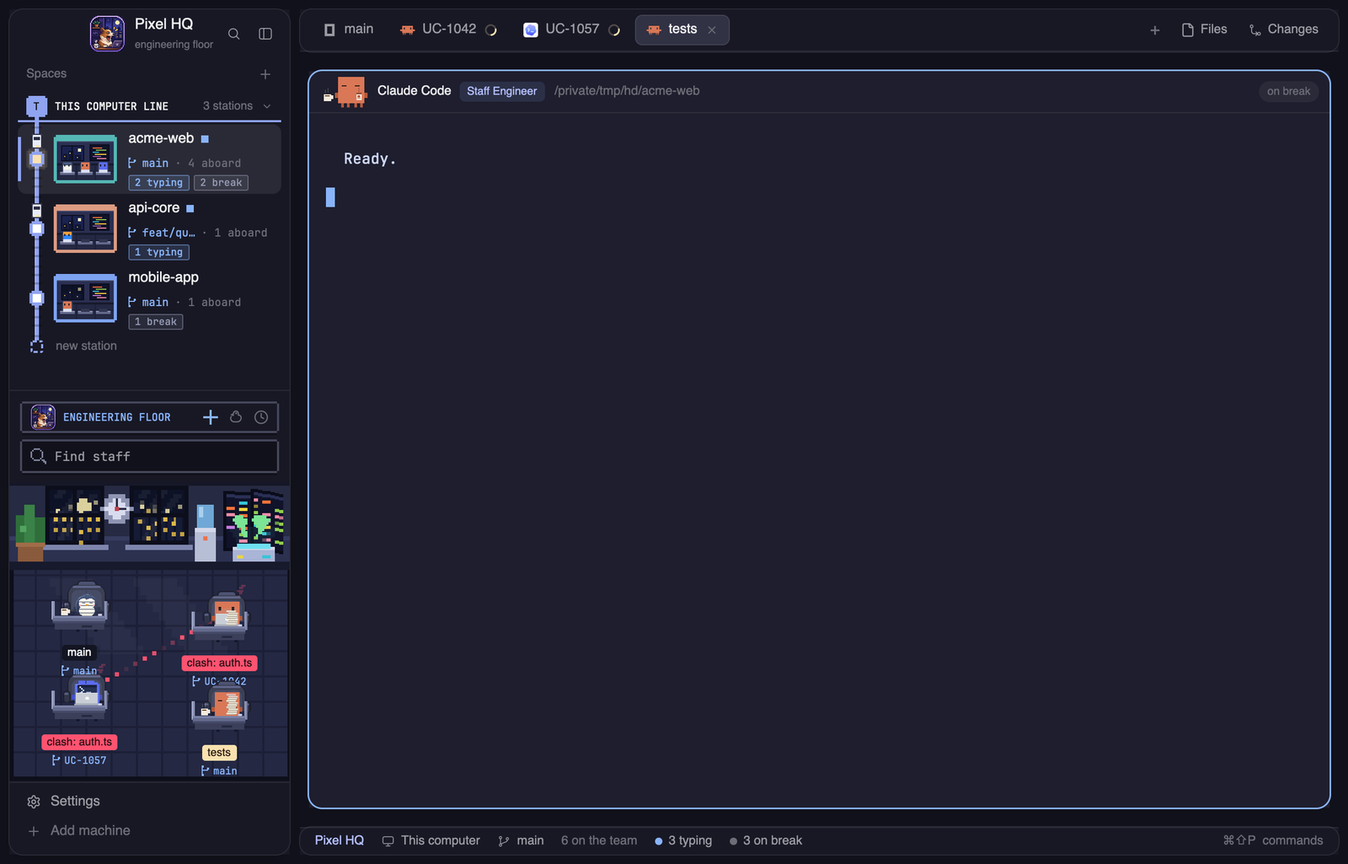
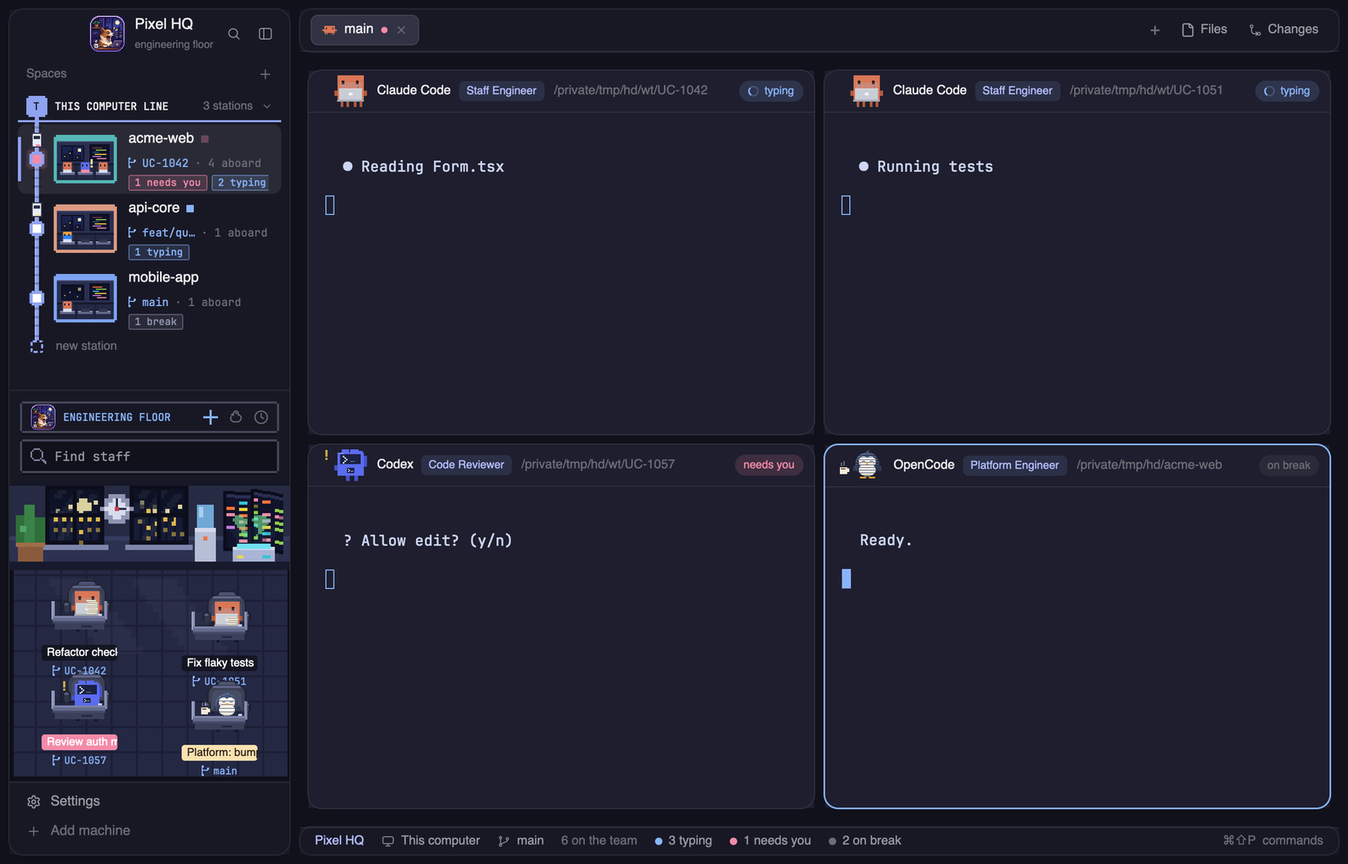
1.3.0: paper piles for Codex and OpenCode, one-click Update button, new screenshot

diff --git a/mods/company-agents/main.js b/mods/company-agents/main.js
@@ -88,6 +88,23 @@ function contextBar(t, pct, model, address) {
     .when(Boolean(model), el => el.child(div().min_w(0).truncate().text_size(10).text_color(t.muted).child(`· ${model}`)));
 }
 
+// What the Update button hands to an agent.
+const UPDATE_PROMPT = "Read ~/.config/herdr-app/AGENTS.md, then update my Pixel HQ layout to the latest version from herdr.dev/layouts/bnhan2710/pixel-hq. Overwriting my installed pixel-hq files is intended; keep my other layouts and mods.";
+
+// Finds a Codex terminal's session file (the one its process, or a child of it, has open; else the newest recent one that began in the
+// same folder) and prints its last token_count event, whose last_token_usage and model_context_window say how full the context is.
+const CODEX_SH = `home="\${CODEX_HOME:-$HOME/.codex}/sessions"
+pids="$1"; for i in 1 2 3; do pids="$pids $(for p in $pids; do pgrep -P "$p" 2>/dev/null; done)"; done
+f=""
+[ -n "$1" ] && f=$(lsof -p "$(echo $pids | tr -s ' ' ',')" -Fn 2>/dev/null | sed -n 's/^n//p' | grep -E '/rollout-[^/]*\\.jsonl$' | head -1)
+if [ -z "$f" ]; then
+  for c in $(find "$home" -name 'rollout-*.jsonl' -mmin -720 2>/dev/null | xargs ls -t 2>/dev/null | head -20); do
+    case "$(head -n 1 "$c")" in *'"cwd":"'"$2"'"'*) f="$c"; break;; esac
+  done
+fi
+[ -n "$f" ] || exit 3
+tail -n 600 "$f" | grep '"type":"token_count"' | tail -1`;
+
 export default class Agents extends View {
   init(_props, cx) {
     if (props()?.sortMenu) return;
@@ -125,8 +142,12 @@ export default class Agents extends View {
     this.scanning = false;
     this.scan(cx);
     cx.timer.every(6000, (cx) => this.scan(cx));
+    // Codex does not report its context, but it writes it to its session file: read it for each Codex desk.
+    this.ctxRead = new Map();
+    this.scanCodex(cx);
+    cx.timer.every(8000, (cx) => this.scanCodex(cx));
     // `company-agents.hire` (a key binding, or herdr-app do) opens the hire form.
-    cx.spawn(async (cx) => { for (;;) { const c = await nextCommand(); if (c === "hire") this.openHire(cx); } });
+    cx.spawn(async (cx) => { for (;;) { const c = await nextCommand(); if (c === "hire") this.openHire(cx); if (c === "update") this.runUpdate(cx); } });
     // OpenCode 1.x does not report a status by itself, so without help it never gets a desk. Once, if OpenCode is installed, drop its
     // status plugin (this mod's opencode-status.js) into OpenCode's plugins folder. Only ever replaces Pixel HQ's own older copy;
     // deleting the file removes it for good.
@@ -318,6 +339,29 @@ export default class Agents extends View {
     this.scanning = false;
   }
 
+  async scanCodex(cx) {
+    if (this.scanningCodex || window()?.platform === "windows") return;
+    this.scanningCodex = true;
+    try {
+      const remote = new Set(spaces().filter((x) => x.machine).map((x) => x.id));
+      const paneBy = new Map(panes().map((p) => [p.pane, p]));
+      const next = new Map();
+      for (const a of agents().filter((x) => String(x.program?.key ?? "").toLowerCase().includes("codex") && !remote.has(x.space))) {
+        const info = JSON.parse((await hc(["get", a.address, "--json"]).catch(() => ({ stdout: "{}" }))).stdout || "{}");
+        const pid = info?.foreground?.pid;
+        const cwd = paneBy.get(a.pane)?.cwd;
+        if (!pid && !cwd) continue;
+        const r = await exec("sh", ["-c", CODEX_SH, "sh", String(pid ?? ""), cwd ?? "/dev/null/none"], { timeout: 8000 }).catch(() => null);
+        const ev = r?.code === 0 && r.stdout ? JSON.parse(r.stdout.trim().split("\n").pop()) : null;
+        const used = ev?.payload?.info?.last_token_usage?.total_tokens, win = ev?.payload?.info?.model_context_window;
+        if (used > 0 && win > 0) next.set(a.address, { pct: Math.max(0, Math.min(100, Math.round((used * 100) / win))), model: null });
+      }
+      const sig = JSON.stringify([...next]);
+      if (sig !== JSON.stringify([...this.ctxRead])) { this.ctxRead = next; cx.notify(); }
+    } catch { /* no codex, no lsof, odd output: no pile */ }
+    this.scanningCodex = false;
+  }
+
   openHire(cx) {
     const h = this.hiring;
     h.open = !h.open;
@@ -345,6 +389,21 @@ export default class Agents extends View {
       this.ticketInput.set_value("");
     } catch (e) { h.error = String(e?.message ?? e); }
     h.busy = false;
+    cx.notify();
+  }
+
+  // The Update button: opens a new tab in the shown space with an agent (the one you are in, else Claude) that starts on the update prompt.
+  runUpdate(cx) {
+    // Once per click: every copy of this mod hears the same command, and a double click must not open two agents.
+    if (Date.now() - Number(shared("pixel-hq.update-at") ?? 0) < 5000) return;
+    setShared("pixel-hq.update-at", Date.now());
+    const sp = spaces().find((x) => x.active);
+    const here = agents().find((a) => a.address === focused()?.agent);
+    const key = String(here?.program?.key ?? "").toLowerCase();
+    const argv = key.includes("codex") ? ["codex"] : key.includes("opencode") ? ["opencode"] : ["claude"];
+    if (this.update) localStorage.setItem("upd-dismissed", this.update.version);
+    this.update = null;
+    run("tab.new", { name: "update Pixel HQ", folder: appHome(), argv, task: UPDATE_PROMPT, space: sp?.id });
     cx.notify();
   }
 
@@ -376,25 +435,27 @@ export default class Agents extends View {
   }
 
   async setupOpenCode(cx) {
-    if (localStorage.getItem("oc-plugin-v2")) return;
     const src = `${appHome()}/mods/company-agents/opencode-status.js`;
-    // "oc-plugin" is the first plugin's record: that install only replaces its own old copy and never brings back a removed one.
-    const upgrade = localStorage.getItem("oc-plugin") ? "1" : "";
-    // Exit codes: 0 added, 5 old Pixel HQ copy replaced (it fails to load on OpenCode 2.x), 3 no OpenCode folder,
-    // 4 left alone (already current, someone else's file, or removed by the person).
-    const sh = 'D="${XDG_CONFIG_HOME:-$HOME/.config}/opencode"; [ -d "$D" ] || exit 3; T="$D/plugins/opencode-status.js"; U=0; '
-      + 'if [ -e "$T" ]; then grep -q pixel-hq-status "$T" && exit 4; grep -q PixelHqStatus "$T" || exit 4; U=5; elif [ -n "$2" ]; then exit 4; fi; '
-      + 'mkdir -p "$D/plugins" || exit 1; cp "$1" "$T" || exit 1; exit $U';
-    const ps = "param($src, $upgrade); $c = if ($env:XDG_CONFIG_HOME) { $env:XDG_CONFIG_HOME } else { Join-Path $env:USERPROFILE '.config' }; $d = Join-Path $c 'opencode'; "
-      + "if (-not (Test-Path -LiteralPath $d)) { exit 3 }; $p = Join-Path $d 'plugins'; $t = Join-Path $p 'opencode-status.js'; $u = 0; "
-      + "if (Test-Path -LiteralPath $t) { $s = Get-Content -Raw -LiteralPath $t; if ($s -match 'pixel-hq-status' -or $s -notmatch 'PixelHqStatus') { exit 4 }; $u = 5 } elseif ($upgrade) { exit 4 }; "
-      + "New-Item -ItemType Directory -Force -Path $p | Out-Null; Copy-Item -LiteralPath $src -Destination $t -Force -ErrorAction Stop; exit $u";
+    const had = localStorage.getItem("oc-plugin") ? "1" : "0";
+    // Exit codes: 0 added, 3 no OpenCode folder, 4 nothing to do, 5 updated to this mod's newer version of its own plugin.
+    // Never touches a file that is not this plugin, and respects a plugin the person deleted.
+    const sh = 'D="${XDG_CONFIG_HOME:-$HOME/.config}/opencode"; [ -d "$D" ] || exit 3; T="$D/plugins/opencode-status.js"; '
+      + 'if [ -e "$T" ]; then grep -q PixelHqStatus "$T" || exit 4; '
+      + '[ "$(grep -o "pixel-hq-plugin v[0-9]*" "$T" | head -1)" = "$(grep -o "pixel-hq-plugin v[0-9]*" "$1" | head -1)" ] && exit 4; '
+      + 'cp "$1" "$T" || exit 1; exit 5; fi; [ "$2" = 1 ] && exit 4; mkdir -p "$D/plugins" || exit 1; cp "$1" "$T" || exit 1';
+    const ps = "param($src, $had); $c = if ($env:XDG_CONFIG_HOME) { $env:XDG_CONFIG_HOME } else { Join-Path $env:USERPROFILE '.config' }; $d = Join-Path $c 'opencode'; "
+      + "if (-not (Test-Path -LiteralPath $d)) { exit 3 }; $p = Join-Path $d 'plugins'; $t = Join-Path $p 'opencode-status.js'; "
+      + "if (Test-Path -LiteralPath $t) { $cur = Get-Content -Raw -LiteralPath $t; if ($cur -notmatch 'PixelHqStatus') { exit 4 }; "
+      + "$a = [regex]::Match($cur, 'pixel-hq-plugin v\\d+').Value; $b = [regex]::Match((Get-Content -Raw -LiteralPath $src), 'pixel-hq-plugin v\\d+').Value; "
+      + "if ($a -eq $b) { exit 4 }; Copy-Item -LiteralPath $src -Destination $t -Force -ErrorAction Stop; exit 5 }; "
+      + "if ($had -eq '1') { exit 4 }; New-Item -ItemType Directory -Force -Path $p | Out-Null; Copy-Item -LiteralPath $src -Destination $t -ErrorAction Stop";
     const r = await (window()?.platform === "windows"
-      ? exec("powershell", ["-NoProfile", "-NonInteractive", "-Command", `& { ${ps} } '${src.replace(/'/g, "''")}' '${upgrade}'`])
-      : exec("sh", ["-c", sh, "sh", src, upgrade])).catch(() => null);
+      ? exec("powershell", ["-NoProfile", "-NonInteractive", "-Command", `& { ${ps} } '${src.replace(/'/g, "''")}' '${had}'`])
+      : exec("sh", ["-c", sh, "sh", src, had])).catch(() => null);
     if (!r || ![0, 4, 5].includes(r.code)) return; // no OpenCode here (yet), or a failed copy: try again next launch
-    localStorage.setItem("oc-plugin-v2", "1");
-    if (r.code !== 4) { this.notice = `OpenCode plugin ${r.code === 5 ? "updated" : "added"} · restart OpenCode to see it here`; cx.notify(); }
+    localStorage.setItem("oc-plugin", "1");
+    if (r.code === 0) { this.notice = "OpenCode plugin added · restart OpenCode to see it here"; cx.notify(); }
+    if (r.code === 5) { this.notice = "OpenCode plugin updated · restart OpenCode to apply"; cx.notify(); }
   }
 
   render(cx) {
@@ -483,9 +544,10 @@ export default class Agents extends View {
 
     // Context use (0–100) and model that Claude's status line labels its terminal with.
     const contextOf = new Map(all.flatMap((k) => {
-      const v = Number.parseInt(k.labels?.["claude.context"], 10);
-      return Number.isFinite(v) ? [[k.address, { pct: Math.max(0, Math.min(100, v)), model: k.labels?.["claude.model"] || null }]] : [];
+      const v = Number.parseInt(k.labels?.["agent.context"] ?? k.labels?.["claude.context"], 10);
+      return Number.isFinite(v) ? [[k.address, { pct: Math.max(0, Math.min(100, v)), model: k.labels?.["agent.model"] || k.labels?.["claude.model"] || null }]] : [];
     }));
+    for (const [addr, c] of this.ctxRead) if (!contextOf.has(addr)) contextOf.set(addr, c);
 
     const row = (a, i, subs = []) => {
       const pic = figureFor(a.space_name, a.status, 45, now - this.since(a), speciesOf(a.program?.key));
@@ -792,9 +854,16 @@ export default class Agents extends View {
       })
       .child(scene(sz.width, sz.height))
       .when(list.length === 0, (el) => el.child(div().absolute().left(12).top(sz.height * 0.5).w(sz.width - 24).px(8).py(6).rounded(3).bg("#0f111acc").text_size(12).text_color("#ffffff").child("No staff on this floor yet. Hire one with the + above, or start an agent in this space.")))
-      .when(Boolean(this.update || this.notice), (el) => el.child(div().id("oc-notice").absolute().left(8).right(8).top(horizon + 6).px(8).py(4).rounded(8).bg("#11111bee").border_1().border_color("#89b4fa").text_size(11).text_color("#cdd6f4").cursor_pointer()
-        .on_click((_e, cx) => { if (this.update) localStorage.setItem("upd-dismissed", this.update.version); this.update = null; this.notice = null; cx.notify(); })
-        .child(this.update ? `Pixel HQ ${this.update.version} is out${this.update.notes ? ` · ${this.update.notes}` : ""}. Ask your agent: "update Pixel HQ from github.com/bnhan2710/pixel-hq, overwriting is OK" (click to hide)` : this.notice)))
+      .when(Boolean(this.update || this.notice), (el) => {
+        const btn = (id, text, fill, ink, act) => div().id(id).px(10).h(22).flex().items_center().cursor_pointer().bg(fill).text_size(10.5).font_family(monoF).font_bold().text_color(ink).on_click(act).child(text);
+        const box = v_flex().id("oc-notice").absolute().left(8).right(8).top(horizon + 6).px(8).py(6).gap(6).rounded(8).bg("#11111bee").border_1().border_color("#89b4fa").text_size(11).text_color("#cdd6f4");
+        return el.child(this.update
+          ? box.child(div().child(`Pixel HQ ${this.update.version} is out${this.update.notes ? ` · ${this.update.notes}` : ""}`))
+            .child(h_flex().gap(6)
+              .child(btn("upd-go", "Update now", "#89b4fa", "#11111b", (_e, cx) => this.runUpdate(cx)))
+              .child(btn("upd-later", "Later", "#313244", "#cdd6f4", (_e, cx) => { localStorage.setItem("upd-dismissed", this.update.version); this.update = null; cx.notify(); })))
+          : box.cursor_pointer().on_click((_e, cx) => { this.notice = null; cx.notify(); }).child(this.notice));
+      })
       .when(hidden > 0, (el) => el.child(div().absolute().right(8).top(horizon + 6).px(8).py(3).rounded(8).bg("#11111bdd").border_1().border_color("#45475a").text_size(11).text_color("#cdd6f4").child(`+${hidden} more · narrow the panel to list all`)))
       .children(links)
       .children(this.drag?.moved ? [...pets.filter((_, i) => seated[i].address !== this.drag.addr), ...pets.filter((_, i) => seated[i].address === this.drag.addr)] : pets);

diff --git a/mods/company-agents/opencode-status.js b/mods/company-agents/opencode-status.js
@@ -1,13 +1,16 @@
+// pixel-hq-plugin v3
 // OpenCode plugin for the Herdr app: makes OpenCode show up as a team member in Pixel HQ.
 //
 // Herdr only counts a terminal as an agent when its program reports a status (an OSC 7501 escape sequence).
 // Claude Code does that by itself, and so does OpenCode from 2.0.29 on. OpenCode 1.x does not, so its pane has a pet in the
 // header but no desk in the office. On 1.x this plugin sends the sequence on OpenCode's session events: working, idle,
-// blocked (permission or question). On 2.x it loads and does nothing: OpenCode reports for itself, and the 2.x plugin API
+// blocked (permission or question), and labels the terminal with how full the context is (agent.context, 0-100) for the pile of
+// papers on the desk. On 2.x it loads and does nothing: OpenCode reports for itself, and the 2.x plugin API
 // has no session events to report from.
 //
 // Install: copy this file to ~/.config/opencode/plugins/ and restart OpenCode. Delete it to remove.
 import fs from "node:fs";
+import { execFile } from "node:child_process";
 
 const APP = "opencode";
 const ID = "pixel-hq-status";
@@ -32,14 +35,37 @@ const kindOf = (status) => {
   return ["active", "busy", "pending", "running", "streaming", "working", "retry"].includes(k) ? "working" : undefined;
 };
 
-export const PixelHqStatus = async () => {
+// How full the context is: the last answer's tokens against the model's context window, labelled onto the Herdr terminal with `hc`
+// (at most every 3 s, only when the number moves). Needs the 1.x event stream, so on 2.x there is no pile for OpenCode.
+const limits = new Map();
+let lastPct, lastAt = 0;
+const labelContext = (pct, model) => {
+  const id = process.env.HC_TERMINAL_ID, now = Date.now();
+  if (!id || pct === lastPct || now - lastAt < 3000) return;
+  lastPct = pct; lastAt = now;
+  try { execFile("hc", ["label", id, `agent.context=${pct}`, `agent.model=${model}`], () => {}); } catch {}
+};
+async function loadLimits(client) {
+  try {
+    const res = await client.config.providers();
+    for (const p of res?.data?.providers ?? res?.providers ?? []) for (const [mid, m] of Object.entries(p.models ?? {})) if (m?.limit?.context) limits.set(`${p.id}/${mid}`, m.limit.context);
+  } catch {}
+}
+
+export const PixelHqStatus = async ({ client } = {}) => {
   openTty();
   report("idle");
+  if (client) loadLimits(client);
   return {
     "chat.message": async ({ sessionID }) => { if (!children.has(sessionID)) report("working"); },
     event: async ({ event }) => {
       const type = event?.type, p = event?.properties ?? {};
       if (p.info?.id && p.info.parentID) children.add(p.info.id);
+      if (type === "message.updated" && p.info?.role === "assistant" && !children.has(p.info.sessionID) && p.info.tokens) {
+        const t = p.info.tokens, used = (t.input ?? 0) + (t.output ?? 0) + (t.reasoning ?? 0) + (t.cache?.read ?? 0) + (t.cache?.write ?? 0);
+        const limit = limits.get(`${p.info.providerID}/${p.info.modelID}`);
+        if (limit && used > 0) labelContext(Math.max(0, Math.min(100, Math.round((used * 100) / limit))), p.info.modelID);
+      }
       const child = typeof p.sessionID === "string" && children.has(p.sessionID);
       if (child) {
         if (type === "permission.asked" || type === "question.asked") report("blocked");

diff --git a/README.vi.md b/README.vi.md
@@ -73,13 +73,6 @@ Mỗi chương trình agent là một loài, để bạn nhìn qua là biết ai
 
 Thú cưng, bàn và căn phòng đều được vẽ từ các hình chữ nhật và tạo chuyển động bằng `.loop()` gốc của Herdr. Hình ảnh duy nhất là logo, và bộ đếm giờ duy nhất là một nhịp một giây quyết định khi nào thú cưng đứng dậy ra ngoài.
 
-## Ảnh chụp thật
-
-<p align="center">
-  <img src="screenshot.png?v=5" alt="Ảnh chụp thật của Pixel HQ: các tầng trong danh sách Spaces, văn phòng thú cưng pixel bên dưới, bảng tên trên mọi pane và thanh trạng thái của team" width="900"><br>
-  <sub>Layout khi đang chạy (chỉ dữ liệu demo).</sub>
-</p>
-
 ## Cài đặt
 
 Nhờ agent của bạn:
@@ -94,7 +87,7 @@ Mod là code được tin cậy và Herdr không chạy chúng trong sandbox. Re
 
 ## Cập nhật
 
-Herdr cài layout chia sẻ dưới dạng bản sao thường, nên nó không tự cập nhật. Chỉ cần nhờ agent của bạn:
+Herdr cài layout chia sẻ dưới dạng bản sao thường, nên nó không tự cập nhật. Khi có phiên bản mới, Pixel HQ hiện nút **Update now** trong văn phòng: nó mở một tab mới với một agent (agent bạn đang dùng, nếu không thì Claude) và chạy ngay câu lệnh bên dưới. Bạn cũng có thể tự nhờ một agent bất kỳ:
 
 > Read ~/.config/herdr-app/AGENTS.md, then update my Pixel HQ layout to the latest version from herdr.dev/layouts/bnhan2710/pixel-hq. Overwriting my installed pixel-hq files is intended; keep my other layouts and mods.
 
@@ -106,11 +99,15 @@ Những gì cập nhật sẽ ghi đè và cách quay lại bản cũ nằm tron
 
 Khi context của agent đầy lên, một chồng giấy cao dần trên bàn của nó: cứ 10% thêm một tờ, quá 80% mấy tờ trên cùng ngả hồng (quá 95% chồng giấy rung). Rê chuột lên để xem phần trăm chính xác. **Bấm vào chồng giấy, rồi bấm lần nữa trong 6 giây**, Pixel HQ sẽ gửi cho agent lệnh `/compact`, vốn đã tự tóm tắt cuộc trò chuyện rồi thay lịch sử bằng bản tóm tắt. Chỉ làm khi agent đang rảnh: agent đang chạy sẽ báo "busy: wait for it", agent đang chờ bạn trả lời báo "answer it first". Lần bấm đầu chỉ lên cò và hiện lời nhắc trên biển tên.
 
-Herdr không biết context của agent đầy bao nhiêu, nên cần status line của Claude Code báo cho nó. [`claude-statusline.sh`](mods/company-agents/claude-statusline.sh) làm việc đó (gắn nhãn `claude.context` cho terminal); cần `python3`. Nhờ agent của bạn:
+Herdr không biết context của agent đầy bao nhiêu, nên mỗi agent có một đường riêng:
+
+- **Codex:** không cần cài gì. Pixel HQ đọc số token mà Codex ghi vào file phiên của nó (`~/.codex/sessions`, tìm qua tiến trình đang mở file đó, hoặc theo thư mục) mỗi vài giây. Chạy trên macOS và Linux (cần `sh` và `lsof`).
+- **OpenCode (1.x):** cũng không cần cài gì. Plugin trạng thái mà Pixel HQ thêm vào OpenCode (xem mục bên dưới) báo số token của câu trả lời gần nhất so với cửa sổ context của model. OpenCode 2.x không có sự kiện phiên cho plugin đọc, nên chưa có chồng giấy ở đó.
+- **Claude Code:** cần status line báo cho Herdr. [`claude-statusline.sh`](mods/company-agents/claude-statusline.sh) làm việc đó (gắn nhãn phần trăm context cho terminal); cần `python3`. Nhờ agent của bạn:
 
 > Set my Claude Code status line (`statusLine` in `~/.claude/settings.json`) to `sh ~/.config/herdr-app/mods/company-agents/claude-statusline.sh`, keeping the rest of my settings. If I already have a status line, tell me first.
 
-Hiện chỉ Claude Code báo context theo cách này, các agent khác chưa có chồng giấy.
+Antigravity (agy) chưa có chồng giấy: mình chưa tìm ra cách đọc context của nó.
 
 ## Làm việc nhóm không giẫm chân nhau
 
@@ -131,13 +128,20 @@ Herdr chỉ coi một chương trình là agent khi nó báo trạng thái. Clau
 
 ## Thông báo cập nhật
 
-Khi có phiên bản Pixel HQ mới, văn phòng hiện một dòng nhỏ ("Pixel HQ 1.2.0 is out · có gì mới. Ask your agent: ...") mà bạn bấm là tắt; nó chỉ hiện lại ở phiên bản kế tiếp. Để làm vậy, mod `company-agents` đọc một file công khai rất nhỏ, `mods/company-agents/version.json` trên nhánh `main` của repo này, lúc khởi động và mỗi 6 giờ, rồi so với bản trong máy bạn. Nó không gửi gì về bạn. Muốn tắt, xóa `mods/company-agents/version.json` trong bản cài của bạn (cập nhật sẽ đặt nó lại).
+Khi có phiên bản Pixel HQ mới, văn phòng hiện một dòng nhỏ ("Pixel HQ 1.4.0 is out · có gì mới") kèm nút **Update now** (mở một agent chạy câu lệnh cập nhật) và nút **Later** để ẩn đến phiên bản kế tiếp. Để làm vậy, mod `company-agents` đọc một file công khai rất nhỏ, `mods/company-agents/version.json` trên nhánh `main` của repo này, lúc khởi động và mỗi 6 giờ, rồi so với bản trong máy bạn. Nó không gửi gì về bạn. Muốn tắt, xóa `mods/company-agents/version.json` trong bản cài của bạn (cập nhật sẽ đặt nó lại).
 
 ## Tuỳ biến theo ý bạn
 
 - Chuột phải vào một thú cưng để đổi figures của nó, hoặc chuột phải vào chỗ sàn trống để đưa mọi bàn về chỗ cũ.
 - `RECIPE.md` là bản brief dùng để dựng layout này. Đưa nó cho agent của bạn để dựng lại hoặc remix.
 - Phần vẽ nằm ở `mods/company-agents/duck.js` (thú cưng) và `scene.js` (căn phòng).
+
+## Ảnh chụp thật
+
+<p align="center">
+  <img src="screenshot.png?v=6" alt="Pixel HQ đang làm việc: đường tàu các tầng, văn phòng với bốn agent trong lưới pane 2x2, bảng tên trên mọi pane và thanh trạng thái của team" width="900"><br>
+  <sub>Cả văn phòng đang làm việc: hai Claude, một Codex đang chờ bạn và một OpenCode đang nghỉ, mỗi agent một git worktree, giấy tờ chất dần trên bàn (dữ liệu demo).</sub>
+</p>
 
 ## Ghi công và giấy phép
 

diff --git a/RECIPE.md b/RECIPE.md
@@ -74,7 +74,7 @@ On first run the `company-agents` mod copies it, with `exec("sh", ...)`, to `$XD
 
 ## Paper pile and /compact
 
-`claude-statusline.sh` (set as Claude Code's `statusLine`) reads the JSON Claude passes on stdin, takes `context_window.used_percentage` (else estimates it from the last usage in the transcript) and runs `hc label $HC_TERMINAL_ID claude.context=<0-100> claude.model=<name>`. The agents mod reads that label from `terminals()`. For an agent with the label at 5% or more it draws, on the right of the desk, a pile of `ceil(pct/10)` sheets (max 10), each 15x3 units, alternating `#f6f1e7` and `#e9e2d4` with a faint bottom edge and a 1-unit sideways wobble; from 80% the two top sheets are pink (`#f5b8c0`, `#f0cbd0`), from 95% the whole pile bobs 2 units every 0.6 s. The pile is a click target (tooltip: "Context N% used · click to /compact"). Click one arms it (the nameplate turns violet and reads "click the papers again to /compact" for 6 s); a second click within that time runs `hc send <terminal> "/compact"` (Claude Code's /compact already summarizes, so no extra instruction), and the nameplate reads "compacting..." for 8 s. A `working` agent answers "busy: wait for it" and a `blocked` one "answer it first", and nothing is sent.
+`claude-statusline.sh` (set as Claude Code's `statusLine`) reads the JSON Claude passes on stdin, takes `context_window.used_percentage` (else estimates it from the last usage in the transcript) and runs `hc label $HC_TERMINAL_ID claude.context=<0-100> claude.model=<name>`. The agents mod reads that label from `terminals()` (`agent.context`, else `claude.context`; and `agent.model`, else `claude.model`). Two other agents feed the same number: **OpenCode 1.x** (the status plugin, version marker `pixel-hq-plugin v3`, reads `message.updated` events of the root session: `input + output + reasoning + cache.read + cache.write` of the last assistant message over the model's `limit.context` from `client.config.providers()`, and labels the terminal with `hc label $HC_TERMINAL_ID agent.context=<pct> agent.model=<id>` at most every 3 s) and **Codex** (every 8 s the mod runs a small `sh` script: it finds the session file a Codex process or one of its children has open with `lsof`, else the newest rollout under `$CODEX_HOME/sessions` whose first line has the desk's `cwd`, takes its last `token_count` event and divides `last_token_usage.total_tokens` by `model_context_window`; macOS and Linux only). When the installed OpenCode plugin carries an older marker the mod replaces it with its own newer version (never a file that is not this plugin). For an agent with the label at 5% or more it draws, on the right of the desk, a pile of `ceil(pct/10)` sheets (max 10), each 15x3 units, alternating `#f6f1e7` and `#e9e2d4` with a faint bottom edge and a 1-unit sideways wobble; from 80% the two top sheets are pink (`#f5b8c0`, `#f0cbd0`), from 95% the whole pile bobs 2 units every 0.6 s. The pile is a click target (tooltip: "Context N% used · click to /compact"). Click one arms it (the nameplate turns violet and reads "click the papers again to /compact" for 6 s); a second click within that time runs `hc send <terminal> "/compact"` (Claude Code's /compact already summarizes, so no extra instruction), and the nameplate reads "compacting..." for 8 s. A `working` agent answers "busy: wait for it" and a `blocked` one "answer it first", and nothing is sent.
 
 ## The metro line
 
@@ -94,7 +94,7 @@ Each floor card is 66px: the night-office tile (54x40, as above) inside a notche
 
 ## Update notice
 
-`mods/company-agents/version.json` holds `{ "version": "1.1.0", "notes": "…" }`. At start and every 6 hours the `company-agents` mod reads its own copy with `readTextFile`, fetches the same file from `raw.githubusercontent.com/bnhan2710/pixel-hq/main/mods/company-agents/version.json`, and compares the numbers part by part. When the remote one is newer and was not dismissed, the office shows a dismissible note over the floor: "Pixel HQ <version> is out · <notes>. Ask your agent: "update Pixel HQ from github.com/bnhan2710/pixel-hq, overwriting is OK"". A click hides it and remembers that version in `localStorage` (`upd-dismissed`). A missing or broken `version.json`, no network or a failed request all end the check silently; no data about the person is sent.
+`mods/company-agents/version.json` holds `{ "version": "1.1.0", "notes": "…" }`. At start and every 6 hours the `company-agents` mod reads its own copy with `readTextFile`, fetches the same file from `raw.githubusercontent.com/bnhan2710/pixel-hq/main/mods/company-agents/version.json`, and compares the numbers part by part. When the remote one is newer and was not dismissed, the office shows a framed note over the floor, "Pixel HQ <version> is out · <notes>", with two buttons: **Update now** (violet-blue, mono bold) and **Later**. Later remembers the version in `localStorage` (`upd-dismissed`) and hides the note. Update now runs `tab.new { name: "update Pixel HQ", folder: <the app home>, argv: [<agent>], task: <prompt>, space: <shown space> }`, where the agent is Codex or OpenCode if you are in one of them, else Claude, and the prompt is: "Read ~/.config/herdr-app/AGENTS.md, then update my Pixel HQ layout to the latest version from herdr.dev/layouts/bnhan2710/pixel-hq. Overwriting my installed pixel-hq files is intended; keep my other layouts and mods." It also hides the note, and is ignored if it ran in the last 5 s (every copy of the mod hears the same command; a double click must not open two agents). The command `company-agents.update` does the same. A missing or broken `version.json`, no network or a failed request all end the check silently; no data about the person is sent.
 
 ## Built from
 

diff --git a/README.md b/README.md
@@ -73,13 +73,6 @@ One species per agent program, so you can tell who is who at a glance:
 
 The pets, desks and room are drawn from rectangles and animated with Herdr's native `.loop()`. The only picture is the logo, and the only timer is a one-second tick that decides when a pet steps out.
 
-## A real screenshot
-
-<p align="center">
-  <img src="screenshot.png?v=5" alt="A real screenshot of Pixel HQ: floors in the Spaces list, an office of pixel pets below it, desk nameplates on every pane and a team status bar" width="900"><br>
-  <sub>The layout as it runs (demo data only).</sub>
-</p>
-
 ## Install
 
 Ask your agent:
@@ -94,7 +87,7 @@ Mods are trusted code and Herdr does not sandbox them. This repo is about 2,000 
 
 ## Update
 
-Herdr installs a shared layout as a plain copy, so it does not update by itself. Just ask your agent:
+Herdr installs a shared layout as a plain copy, so it does not update by itself. When a new version is out, Pixel HQ shows an **Update now** button in the office: it opens a new tab with an agent (the one you are in, else Claude) that starts on the prompt below. You can also ask any agent yourself:
 
 > Read ~/.config/herdr-app/AGENTS.md, then update my Pixel HQ layout to the latest version from herdr.dev/layouts/bnhan2710/pixel-hq. Overwriting my installed pixel-hq files is intended; keep my other layouts and mods.
 
@@ -106,11 +99,15 @@ What an update overwrites, and how to go back, is in [UPDATE.md](UPDATE.md).
 
 As an agent's context fills up, a pile of paper grows on its desk: one sheet per 10%, and past 80% the top sheets turn pink (past 95% the pile trembles). Hover it for the exact percentage. **Click the pile, then click it again within 6 seconds**, and Pixel HQ sends the agent `/compact`, which already summarizes the conversation and swaps the history for that summary. It only does this when the agent is idle: a working agent answers "busy: wait for it", a blocked one "answer it first". The first click just arms it and says so on the nameplate.
 
-Herdr does not know how full an agent's context is, so a Claude Code status line has to tell it. [`claude-statusline.sh`](mods/company-agents/claude-statusline.sh) does that (it labels the terminal with `claude.context`); it needs `python3`. Ask your agent:
+Herdr does not know how full an agent's context is, so each agent has its own way in:
+
+- **Codex:** nothing to set up. Pixel HQ reads the token count Codex writes to its session file (`~/.codex/sessions`, found through the process that has it open, or by folder) every few seconds. macOS and Linux (it needs `sh` and `lsof`).
+- **OpenCode (1.x):** nothing to set up either. The status plugin that Pixel HQ adds to OpenCode (see below) reports the last answer's tokens against the model's context window. OpenCode 2.x has no session events for a plugin to read, so no pile there yet.
+- **Claude Code:** a status line has to tell Herdr. [`claude-statusline.sh`](mods/company-agents/claude-statusline.sh) does that (it labels the terminal with the context percentage); it needs `python3`. Ask your agent:
 
 > Set my Claude Code status line (`statusLine` in `~/.claude/settings.json`) to `sh ~/.config/herdr-app/mods/company-agents/claude-statusline.sh`, keeping the rest of my settings. If I already have a status line, tell me first.
 
-Only Claude Code reports its context this way for now, so other agents have no pile.
+Antigravity (agy) has no pile yet: I found no way to read its context.
 
 ## Teamwork without collisions
 
@@ -131,13 +128,20 @@ Herdr only counts a program as an agent when it reports a status. Claude Code do
 
 ## Update notices
 
-When a newer version of Pixel HQ is out, the office shows a small note ("Pixel HQ 1.2.0 is out · what's new. Ask your agent: ...") that you can click away; it comes back only for the next version. To do this the `company-agents` mod reads one tiny public file, `mods/company-agents/version.json` on this repo's `main` branch, at start and every 6 hours, and compares it with the copy in your install. It sends nothing about you. To turn it off, delete `mods/company-agents/version.json` from your install (an update puts it back).
+When a newer version of Pixel HQ is out, the office shows a small note ("Pixel HQ 1.4.0 is out · what's new") with an **Update now** button (it opens an agent on the update prompt) and a **Later** button that hides it until the next version. To do this the `company-agents` mod reads one tiny public file, `mods/company-agents/version.json` on this repo's `main` branch, at start and every 6 hours, and compares it with the copy in your install. It sends nothing about you. To turn it off, delete `mods/company-agents/version.json` from your install (an update puts it back).
 
 ## Make it yours
 
 - Right-click a pet to change its figures, or right-click empty floor to put every desk back.
 - `RECIPE.md` is the brief this layout was built from. Hand it to your agent to rebuild or remix it.
 - Drawings live in `mods/company-agents/duck.js` (the pets) and `scene.js` (the room).
+
+## A real screenshot
+
+<p align="center">
+  <img src="screenshot.png?v=6" alt="Pixel HQ at work: the metro line of floors, the office with four agents in a 2x2 grid of panes, desk nameplates on every pane and a team status bar" width="900"><br>
+  <sub>The whole office at work: two Claude, a Codex waiting for you and an OpenCode on a break, one git worktree each, with papers piling up on the desks (demo data only).</sub>
+</p>
 
 ## Credits and license
 

diff --git a/UPDATE.md b/UPDATE.md
@@ -11,9 +11,9 @@ What lives in your install (`~/.config/herdr-app/`):
 | `themes/pixel-hq.json` | the terminal theme |
 | `mods/company-agents/`, `company-brand/`, `company-pane/`, `company-spaces/`, `company-status/` | the five mods |
 
-## 1. Ask your agent
+## 1. Press Update now, or ask your agent
 
-An agent never overwrites existing files unless you say so, so say "update":
+When a newer version is out, the office shows an **Update now** button that opens an agent on this prompt for you. Or paste it into any agent yourself. An agent never overwrites existing files unless you say so, which is why the prompt says so:
 
 > Read ~/.config/herdr-app/AGENTS.md, then update my Pixel HQ layout to the latest version from herdr.dev/layouts/bnhan2710/pixel-hq. Overwriting my installed pixel-hq files is intended; keep my other layouts and mods.
 
